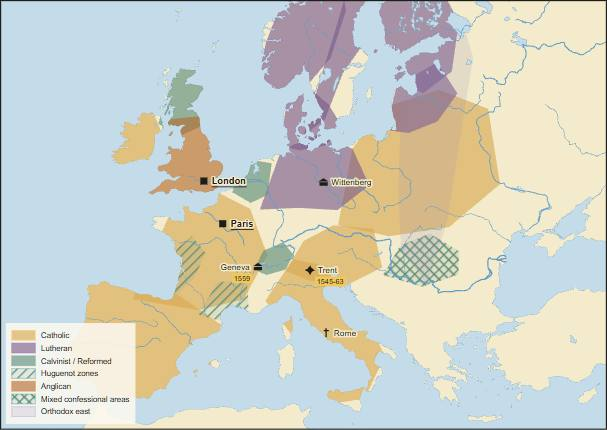
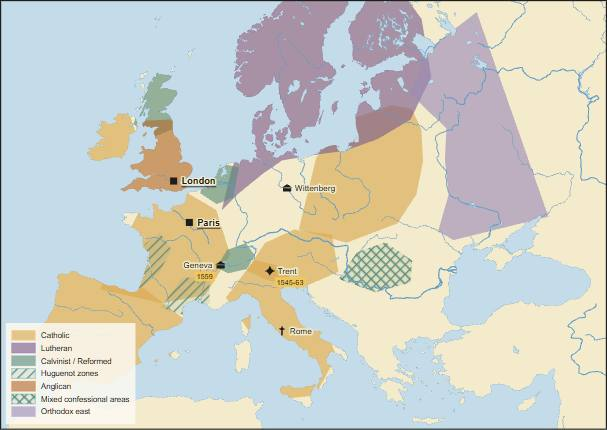
Polish round 12 atlas figures
Copilot-Session: 37f2f47f-8b63-49cd-b8ce-cded564ac449

diff --git a/atlas/plates/confessional-europe-1560-1660.js b/atlas/plates/confessional-europe-1560-1660.js
@@ -6,43 +6,40 @@
   const franceCath=[[-5,43.0],[-3,49.2],[1,51.0],[5,50.0],[7,47.0],[5,44.0],[1,43.0]];
   const italy=[[7.0,44.0],[9.5,46.8],[12.8,46.3],[15.8,43.2],[17.5,40.2],[15.5,37.5],[12.0,37.2],[10.3,41.0]];
   const ireland=[[-10.8,51.2],[-10.0,54.8],[-7.5,55.7],[-5.4,54.0],[-6.2,51.5],[-8.6,50.8]];
-  const polandLith=[[14.0,49.0],[16.0,54.0],[20.0,56.5],[27.0,57.0],[32.0,55.0],[31.0,50.0],[25.0,48.0],[19.0,48.0]];
+  const polandLith=[[14.0,49.0],[16.0,54.0],[20.0,56.5],[25.8,57.2],[28.2,56.7],[28.9,55.2],[28.4,53.0],[27.0,50.8],[24.5,49.0],[19.0,48.0]];
   const austriaCath=[[8.8,46.0],[10.5,48.0],[13.5,49.0],[17.5,48.6],[18.0,46.0],[14.5,45.0],[11.0,45.4]];
-  const luthGermany=[[6.0,50.0],[8.0,54.0],[12.0,55.0],[16.0,54.0],[17.5,51.5],[14.0,50.0],[10.0,50.2]];
-  const denmark=[[8.0,54.3],[8.5,57.7],[11.0,58.2],[13.5,57.0],[15.0,55.5],[13.0,54.3],[10.0,54.0]];
-  const norway=[[4.5,57.5],[5.5,61.0],[8.0,64.5],[12.0,66.5],[16.0,66.0],[16.5,63.0],[14.0,60.0],[10.5,58.0],[7.0,57.0]];
-  const swedenFin=[[10.5,55.0],[12.5,58.5],[15.0,62.0],[18.0,65.5],[23.0,66.5],[29.5,65.0],[31.5,61.0],[29.0,58.0],[25.0,57.0],[21.0,58.5],[18.0,60.5],[15.5,59.0],[13.0,56.0]];
-  const balticLuth=[[20.0,55.0],[22.0,57.8],[27.5,58.8],[29.0,56.5],[26.0,55.0],[22.5,54.6]];
+  const lutheranNorth=[[5.6,50.0],[7.4,51.4],[9.8,52.8],[12.0,53.8],[15.8,54.2],[19.5,54.4],[23.5,55.0],[27.8,56.0],[31.5,58.6],[32.0,62.6],[29.0,65.6],[22.0,67.4],[14.0,67.3],[8.0,66.0],[4.0,62.2],[4.8,58.6],[7.4,55.4],[6.2,53.0]];
   const scotland=[[-6.2,54.7],[-5.5,58.6],[-2.0,58.8],[-1.0,55.2],[-3.5,54.2]];
   const huguenotWest=[[-2.5,43.5],[-1.8,46.8],[-0.5,47.8],[1.0,46.8],[0.2,45.0],[-1.2,43.8]];
   const huguenotSouth=[[1.0,42.7],[2.5,45.0],[5.2,45.2],[5.5,43.5],[3.5,42.4]];
   const swissCalv=[[5.8,46.0],[6.6,47.3],[8.5,47.9],[9.5,47.1],[8.8,46.1],[7.0,45.7]];
   const dutchCalv=[[3.0,51.0],[3.8,53.3],[7.0,53.1],[6.7,51.0],[5.0,50.4]];
   const transylvania=[[18.0,45.5],[20.0,47.3],[23.0,47.8],[25.5,46.3],[25.0,44.8],[21.5,44.4]];
-  const orthodoxEast=[[22.0,44.5],[25.0,48.5],[28.0,53.5],[32.0,58.5],[32.0,61.0],[26.0,61.0],[22.0,56.0],[20.5,51.0],[20.0,47.0]];
+  const orthodoxEast=[[28.6,48.0],[30.5,50.4],[30.9,52.8],[31.9,54.9],[28.3,57.8],[32.0,60.5],[40.0,62.0],[40.0,47.0],[30.0,47.2]];
   window.PLATES["confessional-europe-1560-1660"] = { id:"confessional-europe-1560-1660", title:"Confessional Europe, 1560-1660", head:"Age of Religious Discord / Europe", folio:"33", viewer:"transition/1560/ch-confessional-europe", figures:[
-    {caption:"Religious schisms in Europe, c. 1560", share:0.50, extent:[[-11,36],[32,62]], projection:"conic", layers:[
+    {caption:"Religious schisms in Europe, c. 1560", share:0.50, extent:[[-11,36],[40,62]], projection:"conic", layers:[
       {id:"catholic-spain",type:"area",clipToLand:true,tier:"core",colour:CATH,legend:"Catholic",polygon:spain,smooth:false}, {id:"catholic-france",type:"area",clipToLand:true,tier:"core",colour:CATH,polygon:franceCath,smooth:false}, {id:"catholic-italy",type:"area",clipToLand:true,tier:"core",colour:CATH,polygon:italy,smooth:false}, {id:"catholic-ireland",type:"area",clipToLand:true,tier:"core",colour:CATH,polygon:ireland,smooth:false}, {id:"catholic-poland",type:"area",clipToLand:true,tier:"core",colour:CATH,polygon:polandLith,smooth:false}, {id:"catholic-austria",type:"area",clipToLand:true,tier:"core",colour:CATH,polygon:austriaCath,smooth:false},
-      {id:"lutheran-germany",type:"area",clipToLand:true,tier:"core",colour:LUTH,legend:"Lutheran",polygon:luthGermany,smooth:false}, {id:"lutheran-denmark",type:"area",clipToLand:true,tier:"core",colour:LUTH,polygon:denmark,smooth:false}, {id:"lutheran-norway",type:"area",clipToLand:true,tier:"core",colour:LUTH,polygon:norway,smooth:false}, {id:"lutheran-sweden-finland",type:"area",clipToLand:true,tier:"core",colour:LUTH,polygon:swedenFin,smooth:false}, {id:"lutheran-baltic",type:"area",clipToLand:true,tier:"core",colour:LUTH,polygon:balticLuth,smooth:false},
+      {id:"lutheran-north",type:"area",clipToLand:true,tier:"core",colour:LUTH,legend:"Lutheran",polygon:lutheranNorth,smooth:false},
       {id:"scotland-reformed",type:"area",clipToLand:true,tier:"core",colour:CALV,legend:"Calvinist / Reformed",polygon:scotland,smooth:false}, {id:"swiss-reformed",type:"area",clipToLand:true,tier:"core",colour:CALV,polygon:swissCalv,smooth:false}, {id:"dutch-reformed",type:"area",clipToLand:true,tier:"core",colour:CALV,polygon:dutchCalv,smooth:false},
       {id:"huguenot-poitou",type:"area",clipToLand:true,pattern:"hatch",colour:CALV,legend:"Huguenot zones",polygon:huguenotWest,smooth:false}, {id:"huguenot-languedoc",type:"area",clipToLand:true,pattern:"hatch",colour:CALV,polygon:huguenotSouth,smooth:false},
       {id:"anglican-1560",type:"area",clipToLand:true,tier:"core",colour:ANGL,legend:"Anglican",polygon:[[-6,49.7],[-5.3,55.1],[-1,55.8],[2.0,52.5],[1.0,50.4],[-2.5,49.5]],smooth:false},
       {id:"transylvania-mixed",type:"area",clipToLand:true,pattern:"crosshatch",colour:CALV,legend:"Mixed confessional areas",polygon:transylvania,smooth:false},
-      {id:"orthodox-east",type:"area",clipToLand:true,tier:"influence",colour:ORTH,legend:"Orthodox east",polygon:orthodoxEast,smooth:false},
+      {id:"orthodox-east",type:"area",clipToLand:true,tier:"core",colour:ORTH,legend:"Orthodox east",polygon:orthodoxEast,smooth:false},
       {id:"rome",type:"point",symbol:"bishopric",at:ROM,name:"Rome"}, {id:"geneva",type:"point",symbol:"university",at:GEN,name:"Geneva",labelPos:"w",tag:{text:"1559",colour:"#f1c75b"}}, {id:"wittenberg",type:"point",symbol:"university",at:WIT,name:"Wittenberg"}, {id:"london",type:"point",symbol:"capital",at:LON,name:"London"}, {id:"paris",type:"point",symbol:"capital",at:PAR,name:"Paris"}, {id:"trent",type:"point",symbol:"conference",at:[11.12,46.07],name:"Trent",tag:{text:"1545-63",colour:"#f1c75b"}}
     ], legend:{position:"bottom-left",columns:1}},
-    {caption:"Wars, expulsions and hardening frontiers, c. 1660", share:0.50, extent:[[-11,36],[32,62]], projection:"conic", layers:[
+    {caption:"Wars, expulsions and hardening frontiers, c. 1660", share:0.50, extent:[[-11,36],[40,62]], projection:"conic", layers:[
       {id:"catholic-spain-1660",type:"area",clipToLand:true,tier:"core",colour:CATH,legend:"Catholic restored or retained",polygon:spain,smooth:false}, {id:"catholic-france-1660",type:"area",clipToLand:true,tier:"core",colour:CATH,polygon:franceCath,smooth:false}, {id:"catholic-italy-1660",type:"area",clipToLand:true,tier:"core",colour:CATH,polygon:italy,smooth:false}, {id:"catholic-ireland-1660",type:"area",clipToLand:true,tier:"core",colour:CATH,polygon:ireland,smooth:false}, {id:"catholic-poland-1660",type:"area",clipToLand:true,tier:"core",colour:CATH,polygon:polandLith,smooth:false}, {id:"catholic-austria-1660",type:"area",clipToLand:true,tier:"core",colour:CATH,polygon:austriaCath,smooth:false},
-      {id:"lutheran-germany-1660",type:"area",clipToLand:true,tier:"core",colour:LUTH,legend:"Lutheran north",polygon:luthGermany,smooth:false}, {id:"lutheran-denmark-1660",type:"area",clipToLand:true,tier:"core",colour:LUTH,polygon:denmark,smooth:false}, {id:"lutheran-norway-1660",type:"area",clipToLand:true,tier:"core",colour:LUTH,polygon:norway,smooth:false}, {id:"lutheran-sweden-finland-1660",type:"area",clipToLand:true,tier:"core",colour:LUTH,polygon:swedenFin,smooth:false}, {id:"lutheran-baltic-1660",type:"area",clipToLand:true,tier:"core",colour:LUTH,polygon:balticLuth,smooth:false},
+      {id:"lutheran-north-1660",type:"area",clipToLand:true,tier:"core",colour:LUTH,legend:"Lutheran north",polygon:lutheranNorth,smooth:false},
+      {id:"anglican-1660",type:"area",clipToLand:true,tier:"core",colour:ANGL,legend:"Anglican England and Wales",polygon:[[-6,49.7],[-5.3,55.1],[-1,55.8],[2.0,52.5],[1.0,50.4],[-2.5,49.5]],smooth:false},
       {id:"swiss-reformed-1660",type:"area",clipToLand:true,tier:"core",colour:CALV,legend:"Calvinist cores",polygon:swissCalv,smooth:false}, {id:"dutch-reformed-1660",type:"area",clipToLand:true,tier:"core",colour:CALV,legend:"Dutch Reformed republic",polygon:dutchCalv,smooth:false}, {id:"scotland-reformed-1660",type:"area",clipToLand:true,tier:"core",colour:CALV,polygon:scotland,smooth:false},
       {id:"huguenot-west-1660",type:"area",clipToLand:true,pattern:"hatch",colour:CALV,legend:"Huguenot survival zones",polygon:huguenotWest,smooth:false}, {id:"huguenot-south-1660",type:"area",clipToLand:true,pattern:"hatch",colour:CALV,polygon:huguenotSouth,smooth:false},
       {id:"mixed-east",type:"area",clipToLand:true,pattern:"hatch",colour:CATH,legend:"Mixed / contested confessional belts",polygon:transylvania,smooth:false},
       {id:"huguenot-exile",type:"arrow",colour:WAR,width:3.0,legend:"Huguenot and Protestant exile routes",path:[[0.0,46.2],[4.4,51.2],[7.6,52.5],POT],label:"after 1685"},
-      {id:"war-corridor",type:"arrow",colour:WAR,width:4.0,legend:"Thirty Years' War corridor",path:[PRG,[12.0,49.8],[8.4,50.0],[6.2,49.8]],label:"1618-48",opacity:0.75},
+      {id:"war-corridor",type:"arrow",colour:WAR,width:4.0,legend:"Thirty Years' War corridor",path:[PRG,[11.5,49.2],[8.5,49.0],[6.2,49.0]],label:"1618-48",opacity:0.75},
       {id:"nantes",type:"point",symbol:"treaty",at:NTE,name:"Nantes",labelPos:"sw",tag:{text:"1598",colour:"#f1c75b"}}, {id:"westphalia",type:"point",symbol:"treaty",at:MUN,name:"Westphalia",labelPos:"s",tag:{text:"1648",colour:"#f1c75b"}}, {id:"prague",type:"point",symbol:"insurrection",at:PRG,name:"Prague",labelPos:"e",tag:{text:"1618",colour:"#e8806a"}}, {id:"potsdam",type:"point",symbol:"treaty",at:POT,name:"Potsdam",labelPos:"ne",tag:{text:"1685",colour:"#f1c75b"}}
     ], legend:{x:405,y:8,columns:1}}
   ], text:{intro:"This plate uses confessional hatching: solid colour marks dominant confessions; hatched belts mark mixed, contested or minority religious geography where borders and belief did not line up cleanly.", sections:[
-    {heading:"A divided map", entries:[{date:"c. 1560",text:"Germany, Scandinavia, Finland and the Baltic provinces are largely Lutheran; Scotland, Geneva, the Low Countries and Swiss cantons carry Reformed currents; England's settlement creates an Anglican realm while Ireland remains Catholic.",refs:["lutheran-germany","lutheran-denmark","lutheran-norway","lutheran-sweden-finland","lutheran-baltic","scotland-reformed","swiss-reformed","dutch-reformed","anglican-1560","catholic-ireland","geneva","wittenberg","london"]},{date:"1545-1563",text:"Trent, Rome, Catholic Spain, Italy, Poland-Lithuania and Austria hold a Catholic map with Protestant minorities, while Transylvania and Hungary become mixed belts beside the Orthodox east.",refs:["catholic-spain","catholic-italy","catholic-poland","catholic-austria","orthodox-east","rome","trent","transylvania-mixed"]}]},
-    {heading:"War and expulsion", entries:[{date:"1598-1648",text:"Nantes and Westphalia are settlements after war, not the end of religious politics: France limits Huguenot war, and the Empire survives as a confessional patchwork.",refs:["nantes","westphalia","war-corridor","mixed-east","huguenot-west-1660","huguenot-south-1660","lutheran-germany-1660","lutheran-sweden-finland-1660"]},{date:"after 1685",text:"The late map hardens through exile and pressure: Huguenots and other Protestants move toward the Dutch Republic, Brandenburg and other refuges.",refs:["huguenot-exile","dutch-reformed-1660","potsdam"]}]}
+    {heading:"A divided map", entries:[{date:"c. 1560",text:"Germany, Scandinavia, Finland and the Baltic provinces are largely Lutheran; Scotland, Geneva, the Low Countries and Swiss cantons carry Reformed currents; England's settlement creates an Anglican realm while Ireland remains Catholic.",refs:["lutheran-north","scotland-reformed","swiss-reformed","dutch-reformed","anglican-1560","catholic-ireland","geneva","wittenberg","london"]},{date:"1545-1563",text:"Trent, Rome, Catholic Spain, Italy, Poland-Lithuania and Austria hold a Catholic map with Protestant minorities, while Transylvania and Hungary become mixed belts beside the Orthodox east.",refs:["catholic-spain","catholic-italy","catholic-poland","catholic-austria","orthodox-east","rome","trent","transylvania-mixed"]}]},
+    {heading:"War and expulsion", entries:[{date:"1598-1648",text:"Nantes and Westphalia are settlements after war, not the end of religious politics: France limits Huguenot war, and the Empire survives as a confessional patchwork.",refs:["nantes","westphalia","war-corridor","mixed-east","huguenot-west-1660","huguenot-south-1660","lutheran-north-1660","anglican-1660"]},{date:"after 1685",text:"The late map hardens through exile and pressure: Huguenots and other Protestants move toward the Dutch Republic, Brandenburg and other refuges.",refs:["huguenot-exile","dutch-reformed-1660","potsdam"]}]}
   ]}, sources:["Penguin Atlas Vol. 1 pp. 239-242, 251-253", "Approximate confessional fields; hatching marks mixed, minority or contested areas; coastlines and rivers: Natural Earth 1:50m"] };
 })();

diff --git a/atlas/plates/dutch-revolt-maritime-empires-1568-1648.js b/atlas/plates/dutch-revolt-maritime-empires-1568-1648.js
@@ -1,28 +1,28 @@
 // Dutch revolt and maritime empires, round 12.
 (function () {
   const DUT="#b36b2e", SPA="#d8a84f", POR="#2f7f86", SEA="#476da6", REB="#7a5a8c", WAR="#8c3b3b", ENG="#8c3b3b";
-  const AMS=[4.90,52.37], ANT=[4.40,51.22], BRU=[4.35,50.85], DEL=[4.36,52.01], UTR=[5.12,52.09], GH=[3.72,51.05], MID=[3.61,51.50], LEY=[4.49,52.16], BRE=[4.78,51.59], BOS=[5.30,51.69], LUX=[6.13,49.61], MIL=[9.19,45.46], BES=[6.03,47.24], MET=[6.18,49.12], LIS=[-9.14,38.72], CAD=[-6.29,36.53], SEV=[-5.99,37.39], MAN=[120.98,14.60], MAC=[113.54,22.20], GOA=[73.83,15.50], MAL=[102.25,2.19], BAT=[106.82,-6.13], MOL=[127.4,0.7], REC=[-34.88,-8.05], HAV=[-82.37,23.11], AZ=[-25.67,37.74];
+  const AMS=[4.90,52.37], ANT=[4.40,51.22], BRU=[4.35,50.85], DEL=[4.36,52.01], UTR=[5.12,52.09], GH=[3.72,51.05], MID=[3.61,51.50], LEY=[4.49,52.16], BRE=[4.78,51.59], BOS=[5.30,51.69], SLU=[3.39,51.31], BOZ=[4.30,51.50], MAA=[5.69,50.85], LUX=[6.13,49.61], MIL=[9.19,45.46], BES=[6.03,47.24], MET=[6.18,49.12], LIS=[-9.14,38.72], CAD=[-6.29,36.53], SEV=[-5.99,37.39], MAN=[120.98,14.60], MAC=[113.54,22.20], GOA=[73.83,15.50], MAL=[102.25,2.19], BAT=[106.82,-6.13], MOL=[127.4,0.7], REC=[-34.88,-8.05], HAV=[-82.37,23.11], AZ=[-25.67,37.74];
   const north=[[3.2,51.2],[3.4,52.1],[4.0,52.8],[5.0,53.4],[6.4,53.5],[7.1,53.0],[7.2,52.3],[6.8,51.8],[6.0,51.5],[5.2,51.4],[4.5,51.5],[3.8,51.4]];
   const south=[[2.6,50.0],[3.0,51.0],[3.7,51.5],[4.7,51.7],[5.8,51.2],[6.4,50.4],[6.6,49.7],[6.0,49.2],[5.0,49.4],[4.0,49.7],[3.0,49.8]];
   const contested=[[3.1,50.7],[3.7,51.5],[4.6,51.9],[5.4,51.8],[5.8,51.2],[5.1,50.7],[4.2,50.4],[3.4,50.3]];
-  const frontier=[[3.25,51.5],MID,DEL,LEY,[4.9,52.0],UTR,BOS,BRE,[4.2,51.2],[3.4,51.2]];
-  const iberia=[[-10,36],[-9,44],[-1,44],[3,42],[2,39],[-2,36]];
+  const frontier=[SLU,BOZ,[4.7,51.35],BOS,[5.55,51.15],MAA];
+  const iberia=[[-10.4,36.0],[-10.2,39.5],[-9.5,43.9],[-6.5,44.2],[-1,44],[3,42],[2,39],[-2,36]];
   const brazil=[[-52,4],[-36,1],[-34,-8],[-38,-18],[-45,-25],[-54,-18],[-58,-7]];
   const africaPosts=[[-18,16],[-8,10],[-1,5],[8,1],[15,-6],[12,-16],[2,-22],[-12,-15]];
-  const portRoute=[LIS,[-11,36],[-16,28],[-23,15],[-20,2],[-14,-12],[-5,-25],[12,-36],[20,-36],[32,-28],[42,-15],[49,-3],[57,8],GOA,MAL,MAC];
+  const portRoute=[LIS,[-11,36],[-16,28],[-23,15],[-20,2],[-14,-12],[-5,-25],[12,-36],[22,-36],[34,-30],[41,-20],[44,-12],[50,-2],[58,8],GOA,[80,7],[90,6],[98,5],MAL,[105,4],[111,9],[113,16],MAC];
   const spanishSilver=[SEV,[-14,36],AZ,[-35,31],[-60,25],HAV,[-86,22],[-96,20],[-104,18],[-115,14],[-135,10],[-160,9],[175,12],[145,14],MAN];
-  const dutchRoute=[AMS,[0,50],[-12,42],[-24,20],[-28,5],[-25,-10],REC,[-20,-30],[12,-38],[20,-36],[45,-25],[65,0],GOA,MAL,BAT,MOL];
-  const englishRoute=[[-0.13,51.51],[-5,50],[-12,43],[-22,28],[-35,23],[-55,22],[-72,20],HAV];
+  const dutchRoute=[AMS,[-1,52],[-5.5,50.2],[-10,45],[-15,36],[-23,18],[-28,5],[-25,-10],REC,[-20,-30],[12,-38],[25,-39],[42,-38],[55,-32],[58,-18],[63,-4],[68,7],GOA,[82,7],[92,5],MAL,BAT,MOL];
+  const englishRoute=[[-0.13,51.51],[-1.5,50.5],[-6.0,49.2],[-10.5,45.0],[-16,37],[-25,28],[-35,23],[-55,22],[-72,20],HAV];
   window.PLATES["dutch-revolt-maritime-empires-1568-1648"] = { id:"dutch-revolt-maritime-empires-1568-1648", title:"Dutch revolt and maritime empires", head:"Age of Religious Discord / Netherlands and Spain", folio:"34", viewer:"transition/1568/ch-dutch-revolt-maritime-empires", figures:[
-    {caption:"The Dutch War of Independence, 1568-1648", share:0.58, extent:[[2.2,45.0],[10.0,53.8]], projection:"conic", layers:[
+    {caption:"The Dutch War of Independence, 1568-1648", share:0.58, extent:[[2.0,49.3],[9.0,53.6]], projection:"conic", layers:[
       {id:"union-utrecht",type:"area",clipToLand:true,tier:"core",colour:DUT,legend:"Union of Utrecht / northern revolt",polygon:north,smooth:false},
       {id:"spanish-netherlands",type:"area",clipToLand:true,tier:"core",colour:SPA,legend:"Spanish Netherlands",polygon:south,smooth:false},
       {id:"pacification",type:"area",clipToLand:true,pattern:"hatch",colour:REB,legend:"Contested middle provinces",polygon:contested,smooth:false},
       {id:"frontier",type:"boundary",style:"partition",colour:WAR,width:2.0,legend:"1609/1648 frontier along rivers",path:frontier},
-      {id:"spanish-road",type:"route",style:"road",weight:3,colour:WAR,legend:"Spanish Road: Milan-Franche-Comte-Lorraine-Luxembourg",path:[MIL,[8.0,46.3],BES,MET,LUX,BRU,ANT]},
+      {id:"spanish-road",type:"arrow",width:3,colour:WAR,legend:"Spanish Road: to Milan via Luxembourg",path:[[5.75,49.3],LUX,BRU,ANT],label:"to Milan"},
       {id:"sea-beggars",type:"arrow",colour:SEA,width:3.0,legend:"Sea Beggars and coastal revolt",path:[[2.8,51.2],MID,DEL,AMS],label:"1572"},
-      {id:"antwerp-fall",type:"point",symbol:"siege",at:ANT,name:"Antwerp",labelPos:"nw",tag:{text:"1585",colour:"#e8806a"}}, {id:"amsterdam",type:"point",symbol:"port",at:AMS,name:"Amsterdam",labelPos:"ne"}, {id:"utrecht",type:"point",symbol:"treaty",at:UTR,name:"Utrecht",labelPos:"e",tag:{text:"1579",colour:"#f1c75b"}}, {id:"leiden",type:"point",symbol:"siege",at:LEY,name:"Leiden",labelPos:"nw",tag:{text:"1574",colour:"#e8806a"}}, {id:"brussels",type:"point",symbol:"capital",at:BRU,name:"Brussels",labelPos:"se"}, {id:"ghent",type:"point",symbol:"treaty",at:GH,name:"Ghent",labelPos:"sw",tag:{text:"1576",colour:"#f1c75b"}}, {id:"breda",type:"point",symbol:"siege",at:BRE,name:"Breda",labelPos:"s"}, {id:"bosch",type:"point",symbol:"fortress",at:BOS,name:"Den Bosch",labelPos:"se"}, {id:"lux",type:"point",symbol:"fortress",at:LUX,name:"Luxembourg",labelPos:"e"}, {id:"besancon",type:"point",symbol:"fortress",at:BES,name:"Franche-Comte",labelPos:"w"}, {id:"milan",type:"point",symbol:"capital",at:MIL,name:"Milan",labelPos:"se"}
-    ], legend:{position:"bottom-left",columns:1}},
+      {id:"antwerp-fall",type:"point",symbol:"siege",at:ANT,name:"Antwerp",labelPos:"sw",tag:{text:"1585",colour:"#e8806a"}}, {id:"amsterdam",type:"point",symbol:"port",at:AMS,name:"Amsterdam",labelPos:"ne"}, {id:"utrecht",type:"point",symbol:"treaty",at:UTR,name:"Utrecht",labelPos:"e",tag:{text:"1579",colour:"#f1c75b"}}, {id:"leiden",type:"point",symbol:"siege",at:LEY,name:"Leiden",labelPos:"nw",tag:{text:"1574",colour:"#e8806a"}}, {id:"brussels",type:"point",symbol:"capital",at:BRU,name:"Brussels",labelPos:"se"}, {id:"ghent",type:"point",symbol:"treaty",at:GH,name:"Ghent",labelPos:"sw",tag:{text:"1576",colour:"#f1c75b"}}, {id:"breda",type:"point",symbol:"siege",at:BRE,name:"Breda",labelPos:"ne"}, {id:"bosch",type:"point",symbol:"fortress",at:BOS,name:"Den Bosch",labelPos:"se"}, {id:"lux",type:"point",symbol:"fortress",at:LUX,name:"Luxembourg",labelPos:"e"}
+    ], legend:{x:10,y:38,columns:1}},
     {caption:"Spanish-Portuguese empire and Dutch-English raids, c. 1580-1620", share:0.42, extent:[[-92,-42],[150,55]], projection:"naturalEarth", centerLon:15, base:{cropToExtent:true}, layers:[
       {id:"iberia-union",type:"area",clipToLand:true,tier:"core",colour:SPA,legend:"Iberian Union core lands",polygon:iberia,smooth:false},
       {id:"brazil-claim",type:"area",clipToLand:true,tier:"influence",colour:SPA,legend:"Brazil and Atlantic claims",polygon:brazil,smooth:false},
@@ -34,7 +34,7 @@
       {id:"lisbon",type:"point",symbol:"port",at:LIS,name:"Lisbon",labelPos:"nw"}, {id:"seville",type:"point",symbol:"port",at:SEV,name:"Seville",labelPos:"ne"}, {id:"cadiz",type:"point",symbol:"port",at:CAD,name:"Cadiz",labelPos:"s",tag:{text:"1587",colour:"#e8806a"}}, {id:"goa",type:"point",symbol:"port",at:GOA,name:"Goa",labelPos:"n"}, {id:"malacca",type:"point",symbol:"port",at:MAL,name:"Malacca",labelPos:"s"}, {id:"macao",type:"point",symbol:"port",at:MAC,name:"Macao",labelPos:"nw"}, {id:"manila",type:"point",symbol:"port",at:MAN,name:"Manila",labelPos:"w"}, {id:"batavia",type:"point",symbol:"port",at:BAT,name:"Batavia",labelPos:"s",tag:{text:"1619",colour:"#f1c75b"}}, {id:"moluccas",type:"point",symbol:"spice",at:MOL,name:"Moluccas",labelPos:"w"}, {id:"recife",type:"point",symbol:"port",at:REC,name:"Recife",labelPos:"e"}, {id:"havana",type:"point",symbol:"port",at:HAV,name:"Havana",labelPos:"e"}
     ], legend:{x:6,y:6,columns:1}}
   ], text:{intro:"The Dutch revolt belongs on two maps at once: a small, waterlogged rebellion in the Low Countries and a global fight over Iberian sea routes, spices and silver.", sections:[
-    {heading:"Low Countries", entries:[{date:"1568-1579",text:"The revolt begins under Habsburg pressure, but the Pacification of Ghent and Union of Utrecht split a northern rebel core from the southern Spanish Netherlands along rivers and fortified towns.",refs:["union-utrecht","spanish-netherlands","pacification","frontier","ghent","utrecht","bosch"]},{date:"1572-1585",text:"Sea Beggars, sieges and the fall of Antwerp push capital, refugees and commerce north toward Amsterdam. The Spanish Road feeds the war from Milan through Franche-Comte, Lorraine and Luxembourg.",refs:["sea-beggars","leiden","antwerp-fall","amsterdam","brussels","spanish-road","milan","besancon","lux"]}]},
+    {heading:"Low Countries", entries:[{date:"1568-1579",text:"The revolt begins under Habsburg pressure, but the Pacification of Ghent and Union of Utrecht split a northern rebel core from the southern Spanish Netherlands along rivers and fortified towns.",refs:["union-utrecht","spanish-netherlands","pacification","frontier","ghent","utrecht","bosch"]},{date:"1572-1585",text:"Sea Beggars, sieges and the fall of Antwerp push capital, refugees and commerce north toward Amsterdam. The Spanish Road feeds the war from Milan through Franche-Comte, Lorraine and Luxembourg.",refs:["sea-beggars","leiden","antwerp-fall","amsterdam","brussels","spanish-road","lux"]}]},
     {heading:"Global competition", entries:[{date:"1580-1640",text:"When Portugal and Spain share a crown, Dutch and English attacks on Portuguese routes become attacks on a single Iberian world system: Iberia, Brazil, African posts and Asian ports.",refs:["iberia-union","brazil-claim","africa-posts","portuguese-indian-ocean","spanish-silver","cadiz","havana","manila"]},{date:"1602-1619",text:"The VOC turns maritime raiding into a company empire around Batavia, Malacca and the Moluccas.",refs:["dutch-raids","english-raids","batavia","malacca","moluccas","goa","macao","recife"]}]}
   ]}, sources:["Penguin Atlas Vol. 1 pp. 243-246", "Approximate revolt zones and sea routes; sea routes use geographic waypoints; coastlines: Natural Earth 1:50m"] };
 })();

diff --git a/atlas/plates/charles-v-habsburg-valois-1519-1556.js b/atlas/plates/charles-v-habsburg-valois-1519-1556.js
@@ -31,20 +31,20 @@
       {id:"ottoman-arrow",type:"arrow",colour:OTT,width:3.0,legend:"Ottoman advance to Vienna",path:[[28.98,41.01],[22.0,44.8],MOH,VIE],label:"1526-29"},
       {id:"charles",type:"point",symbol:"monarch",at:GHE,name:"Ghent",labelPos:"nw",tag:{text:"1500",colour:"#f1c75b"}}, {id:"aachen",type:"point",symbol:"monarch",at:AIX,name:"Aachen",labelPos:"se",tag:{text:"1520",colour:"#f1c75b"}}, {id:"madrid",type:"point",symbol:"capital",at:MAD,name:"Madrid"}, {id:"besancon",type:"point",symbol:"large-city",at:BES,name:"Franche-Comte",labelPos:"w"}, {id:"milan",type:"point",symbol:"capital",at:MILAN,name:"Milan",labelPos:"ne",tag:{text:"1535",colour:"#f1c75b"}}, {id:"naples",type:"point",symbol:"capital",at:NAP,name:"Naples"}, {id:"pavia",type:"point",symbol:"battle",at:PAV,name:"Pavia",labelPos:"s",tag:{text:"1525",colour:"#e8806a"}}, {id:"rome-sack",type:"point",symbol:"destroyed",at:ROM,name:"Rome",tag:{text:"1527",colour:"#e8806a"}}, {id:"mohacs",type:"point",symbol:"battle",at:MOH,name:"Mohacs",tag:{text:"1526",colour:"#e8806a"}}, {id:"vienna",type:"point",symbol:"siege",at:VIE,name:"Vienna",tag:{text:"1529",colour:"#e8806a"}}, {id:"tunis",type:"point",symbol:"battle",at:TUN,name:"Tunis",tag:{text:"1535",colour:"#e8806a"}}
     ], legend:{position:"bottom-left",columns:1}},
-    {kind:"diagram",caption:"Habsburg inheritance, Catholic renewal and the 1556 split", share:0.38, diagram:{height:0.58, compartments:[
-      {id:"inheritance-frame",label:"Composite inheritance",x:0.04,y:0.05,w:0.92,h:0.35,colour:HAB,fill:"#f3e4be"},
-      {id:"split-frame",label:"1556 split and Catholic renewal",x:0.04,y:0.50,w:0.92,h:0.35,colour:CAT,fill:"#f0dccb"}
+    {kind:"diagram",caption:"Habsburg inheritance, Catholic renewal and the 1556 split", share:0.38, diagram:{height:0.42, compartments:[
+      {id:"inheritance-frame",label:"Composite inheritance",x:0.04,y:0.04,w:0.92,h:0.43,colour:HAB,fill:"#f3e4be",labelY:0.00},
+      {id:"split-frame",label:"1556 split and Catholic renewal",x:0.04,y:0.52,w:0.92,h:0.42,colour:CAT,fill:"#f0dccb"}
     ], nodes:[
-      {id:"burgundy",label:"Burgundy\nLow Countries",x:0.18,y:0.20,w:0.22,h:0.10,colour:HAB},
-      {id:"spain-node",label:"Spain\nCastile-Aragon",x:0.43,y:0.20,w:0.22,h:0.10,colour:SPA},
-      {id:"austria-node",label:"Austria\nBohemia-Hungary",x:0.68,y:0.20,w:0.24,h:0.10,colour:AUS},
-      {id:"charles-node",label:"Charles V\n1519-1556",x:0.43,y:0.34,w:0.22,h:0.10,colour:HAB,strong:true},
-      {id:"philip",label:"Philip II\nSpain, NL, Italy",x:0.20,y:0.66,w:0.23,h:0.11,colour:SPA,strong:true},
-      {id:"ferdinand",label:"Ferdinand I\nAustria, Empire",x:0.48,y:0.66,w:0.23,h:0.11,colour:AUS,strong:true},
-      {id:"trent",label:"Trent\nJesuits",x:0.77,y:0.66,w:0.20,h:0.11,colour:CAT}
+      {id:"burgundy",label:"Burgundy\nLow Countries",x:0.18,y:0.19,w:0.22,h:0.10,colour:HAB},
+      {id:"spain-node",label:"Spain\nCastile-Aragon",x:0.43,y:0.19,w:0.22,h:0.10,colour:SPA},
+      {id:"austria-node",label:"Austria\nBohemia-Hungary",x:0.68,y:0.19,w:0.24,h:0.10,colour:AUS},
+      {id:"charles-node",label:"Charles V\n1519-1556",x:0.43,y:0.40,w:0.22,h:0.11,colour:HAB,strong:true},
+      {id:"philip",label:"Philip II\nSpain, NL, Italy",x:0.20,y:0.72,w:0.23,h:0.11,colour:SPA,strong:true},
+      {id:"ferdinand",label:"Ferdinand I\nAustria, Empire",x:0.48,y:0.72,w:0.23,h:0.11,colour:AUS,strong:true},
+      {id:"trent",label:"Trent\nJesuits",x:0.77,y:0.72,w:0.20,h:0.11,colour:CAT}
     ], arrows:[
-      {id:"burgundy-link",from:"burgundy",to:"charles-node",label:"1506",colour:HAB,labelAt:[0.28,0.31]}, {id:"spain-link",from:"spain-node",to:"charles-node",label:"1516",colour:SPA,labelAt:[0.38,0.28],via:[[0.37,0.26]]}, {id:"austria-link",from:"austria-node",to:"charles-node",label:"1519",colour:AUS,labelAt:[0.59,0.31]},
-      {id:"philip-link",from:"charles-node",to:"philip",label:"abdicates",colour:SPA,labelAt:[0.27,0.48]}, {id:"ferdinand-link",from:"charles-node",to:"ferdinand",label:"imperial line",colour:AUS,labelAt:[0.49,0.50]}, {id:"trent-link",from:"ferdinand",to:"trent",label:"reform",colour:CAT,labelAt:[0.63,0.66]}
+      {id:"burgundy-link",from:"burgundy",to:"charles-node",label:"1506",colour:HAB,labelAt:[0.30,0.32],via:[[0.30,0.30],[0.38,0.38]]}, {id:"spain-link",from:"spain-node",to:"charles-node",label:"1516",colour:SPA,labelAt:[0.43,0.31],via:[[0.43,0.30]]}, {id:"austria-link",from:"austria-node",to:"charles-node",label:"1519",colour:AUS,labelAt:[0.58,0.32],via:[[0.62,0.30],[0.54,0.38]]},
+      {id:"philip-link",from:"charles-node",to:"philip",label:"abdicates",colour:SPA,labelAt:[0.27,0.56]}, {id:"ferdinand-link",from:"charles-node",to:"ferdinand",label:"imperial line",colour:AUS,labelAt:[0.49,0.57]}, {id:"trent-link",from:"ferdinand",to:"trent",label:"reform",colour:CAT,labelAt:[0.63,0.72]}
     ]}}
   ], text:{intro:"Charles V ruled a stack of inheritances rather than one tidy state. That made France feel encircled, tied Spain to Germany and Italy, and put Catholic renewal inside imperial politics.", sections:[
     {heading:"Composite empire", entries:[{date:"1516-1519",text:"Burgundy, Spain, Austria and the imperial title converge on Charles V, with the Low Countries, Franche-Comte, the Milanese and Naples making France the central rival.",refs:["spain","low-countries","austria","bohemia","tyrol","franche-comte","milanese","naples-sicily","charles","aachen","burgundy-link","spain-link","austria-link"]},{date:"1525-1529",text:"Pavia, the sack of Rome, Mohacs and Vienna show the same map under pressure: France, the papacy and the Ottomans all exploit the Habsburg system.",refs:["france-east-pressure","lowcountry-pressure","italian-pressure","spain-pressure","pavia","rome-sack","ottoman-balkans","ottoman-arrow","mohacs","vienna"]}]},
